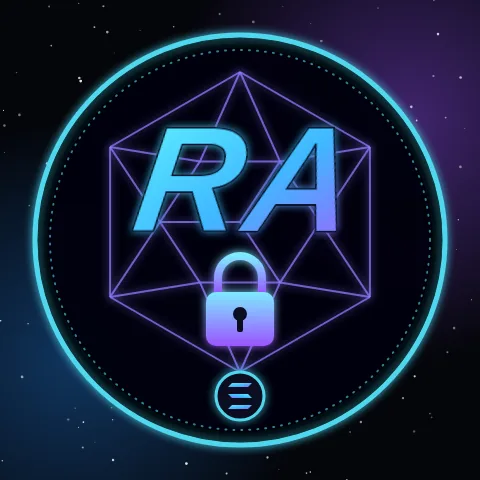
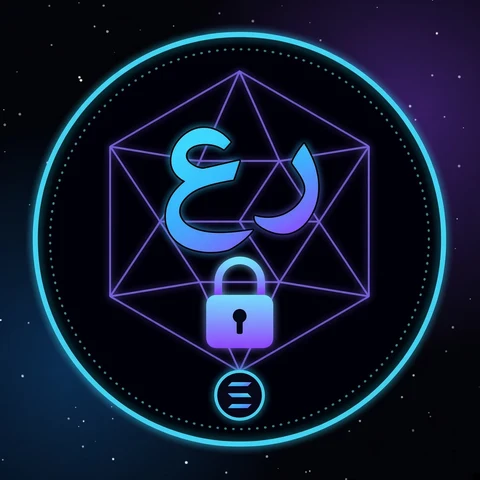
Arabic v2 RA/SATAR emblems; Arabic alt text on ar page

diff --git a/ar/index.html b/ar/index.html
@@ -623,8 +623,8 @@ html[lang="zh-Hans"] .team__title { font-family: inherit; font-style: normal; fo
         <li><a class="tile tile--picture" href="https://stale.elghaly.dev/" rel="noopener noreferrer" aria-label="Stale"><img class="tile__photo" src="/assets/emblem-stale-480.webp" width="480" height="480" alt="Stale" loading="lazy" decoding="async"></a></li>
         <li><a class="tile tile--picture" href="https://glance.elghaly.dev/" rel="noopener noreferrer" aria-label="Glance"><img class="tile__photo" src="/assets/emblem-glance-480.webp" width="480" height="480" alt="Glance" loading="lazy" decoding="async"></a></li>
         <li><a class="tile tile--picture" href="https://stocklana.elghaly.dev/" rel="noopener noreferrer" aria-label="Stocklana"><img class="tile__photo" src="/assets/emblem-stocklana-480.webp" width="480" height="480" alt="Stocklana" loading="lazy" decoding="async"></a></li>
-        <li><div class="tile tile--picture tile--locked" role="img" aria-label="RA, locked" aria-disabled="true"><img class="tile__photo" src="/assets/emblem-ra-480.webp" width="480" height="480" alt="RA" loading="lazy" decoding="async"></div></li>
-        <li><div class="tile tile--picture tile--locked" role="img" aria-label="SATAR, locked" aria-disabled="true"><img class="tile__photo" src="/assets/emblem-satar-480.webp" width="480" height="480" alt="SATAR" loading="lazy" decoding="async"></div></li>
+        <li><div class="tile tile--picture tile--locked" role="img" aria-label="RA, locked" aria-disabled="true"><img class="tile__photo" src="/assets/emblem-ra-480.webp" width="480" height="480" alt="رع" loading="lazy" decoding="async"></div></li>
+        <li><div class="tile tile--picture tile--locked" role="img" aria-label="SATAR, locked" aria-disabled="true"><img class="tile__photo" src="/assets/emblem-satar-480.webp" width="480" height="480" alt="ستار" loading="lazy" decoding="async"></div></li>
         <li><div class="tile tile--picture tile--locked" role="img" aria-label="Anubis, locked" aria-disabled="true"><img class="tile__photo" src="/assets/anubis-2-480.webp" width="480" height="480" alt="Anubis" loading="lazy" decoding="async"></div></li>
       </ol>
       <div class="ask page-menu" data-page-menu data-label="اسأل الذكاء الاصطناعي من نحن" data-prompt="اقرأ https://elghaly.dev/ar/ وأخبرني من هم elghaly."></div>
